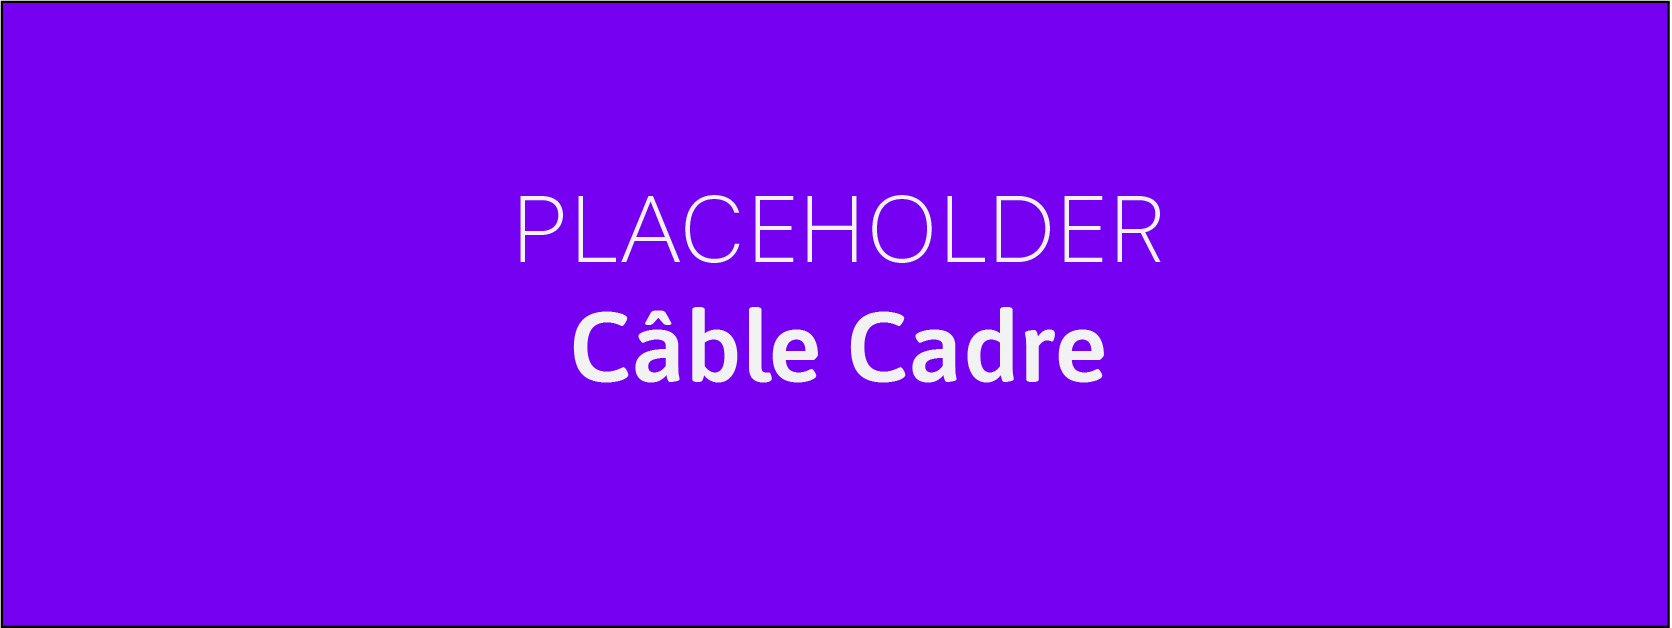
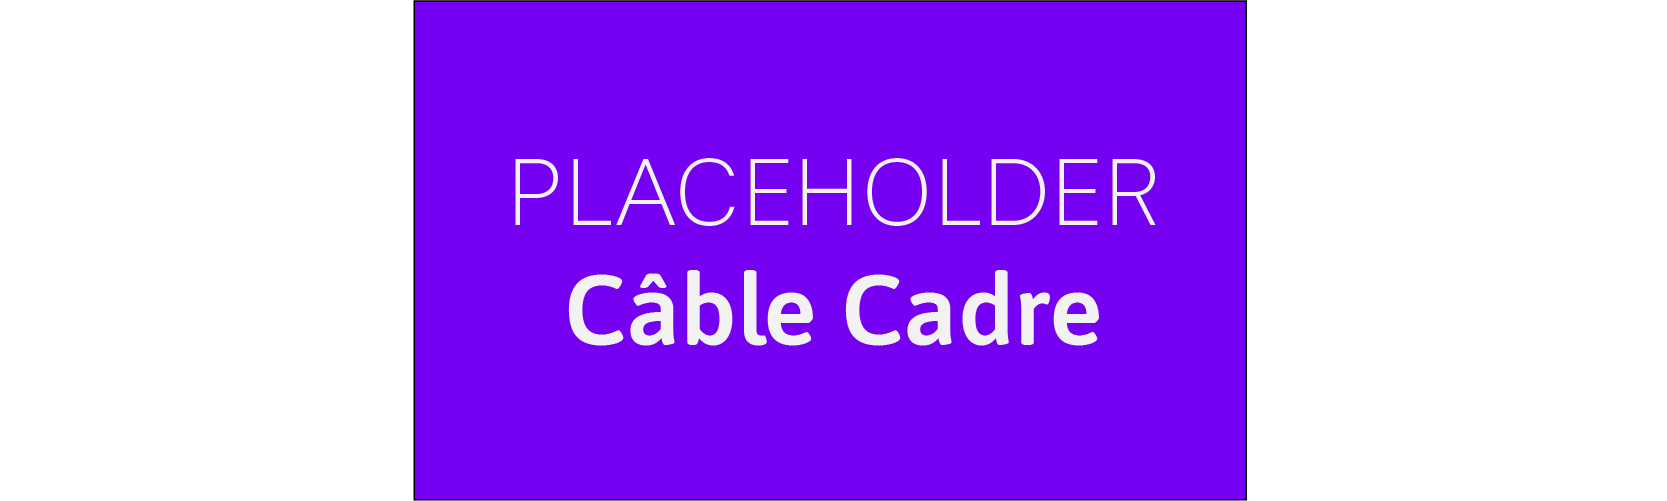
commit
Responsive de la grid css
Changement du format du placeholder

diff --git a/css/grid_layout.css b/css/grid_layout.css
@@ -25,3 +25,16 @@
   grid-column: 2;
   grid-row: 1/3;
 }
+
+
+@media (max-width: 660px) {
+
+  .content{
+    display: flex;
+  flex-direction: column;
+  margin: 0 5% 0 5%;
+  }
+
+
+
+}
